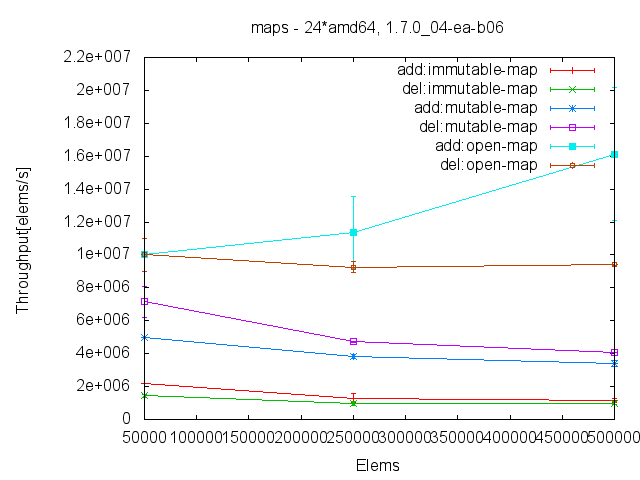
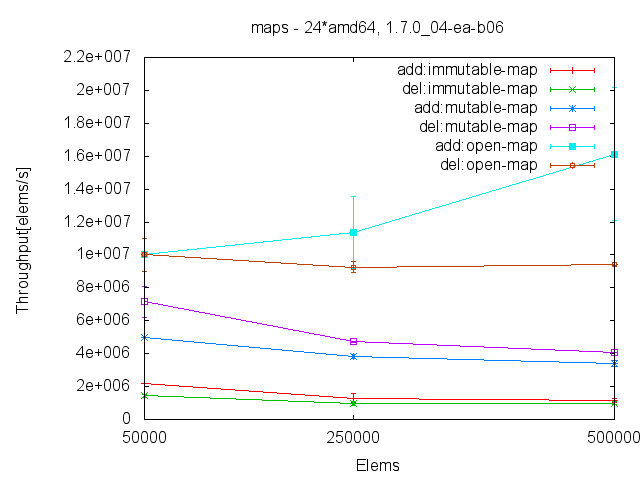
Added the ability to list xtics explicitly.

Changed region(s): [[0.5938, 0.875, 0.9062, 0.9375], [0.2812, 0.875, 0.5, 0.9375]]

diff --git a/README.md b/README.md
@@ -267,6 +267,6 @@ the fastest of the three for `add` and `remove` operations.
 ![maps%time.plt](https://raw.github.com/sbocq/mbench/master/gallery/maps/maps%25time.png)
 
 If we look now at how the throughput scales with the number of elements, we see that the open hash map is not only the fastest of the pack but 
-that its add operation is still optimized (probably by the JIT) as the number of iterations increases (above 250000 additions - TODO: get rid of other X-tics).
+that its add operation is still optimized (probably by the JIT) as the number of iterations increases, still above 300000 additions.
 
 ![maps%throughput.plt](https://raw.github.com/sbocq/mbench/master/gallery/maps/maps%25throughput.png)
